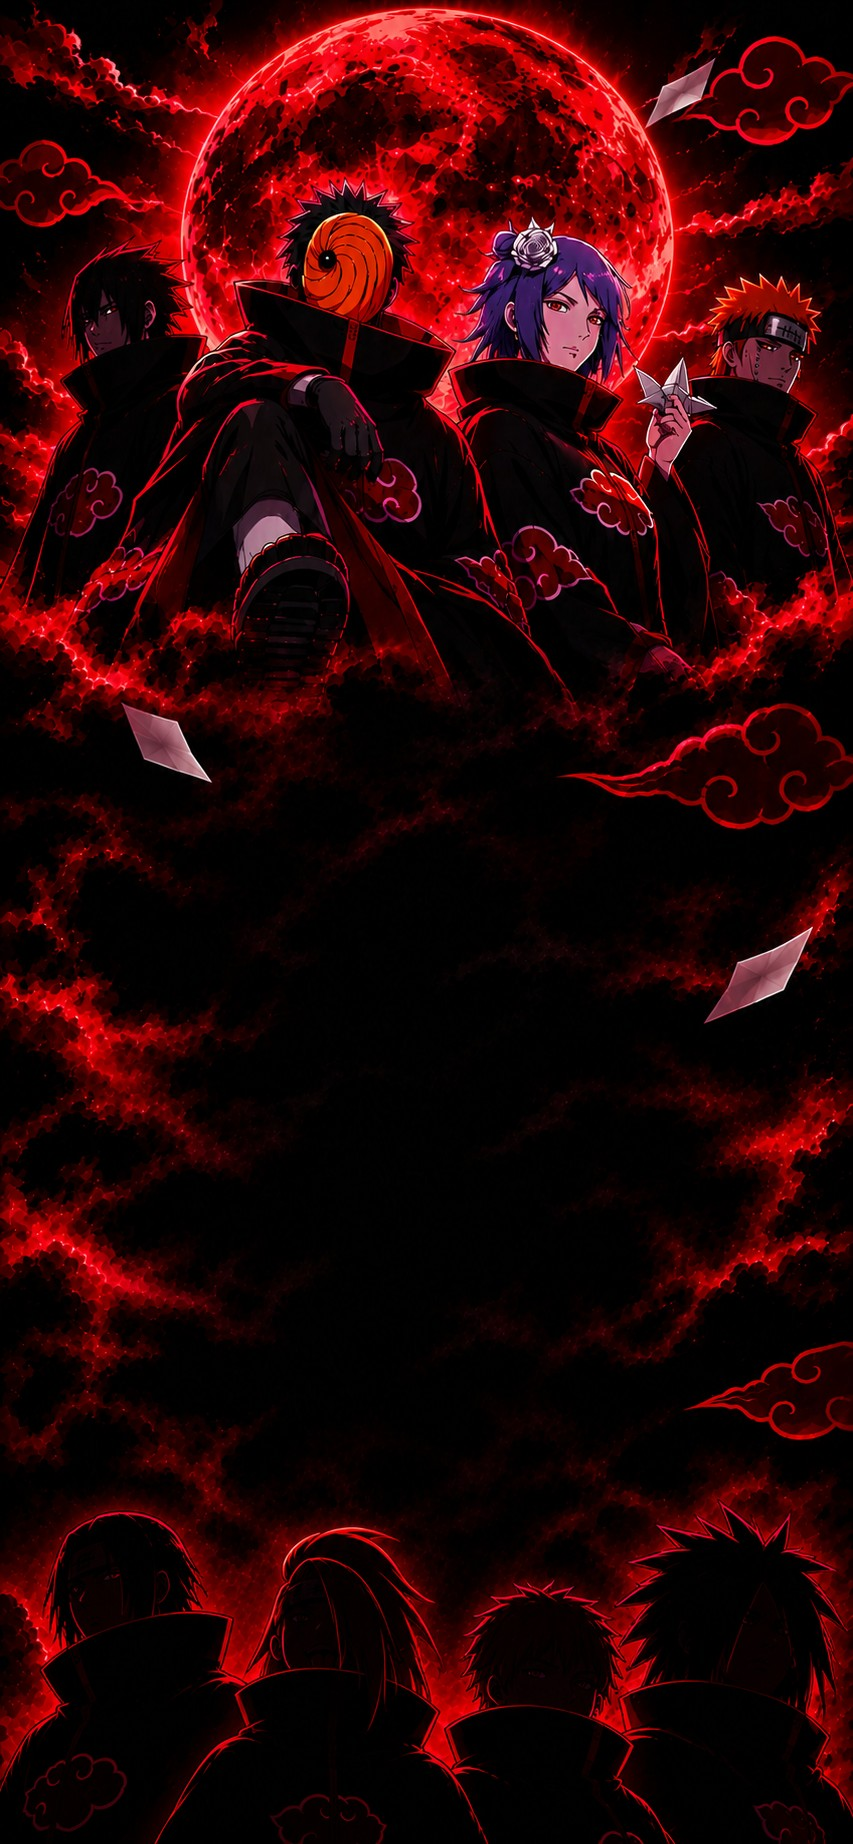
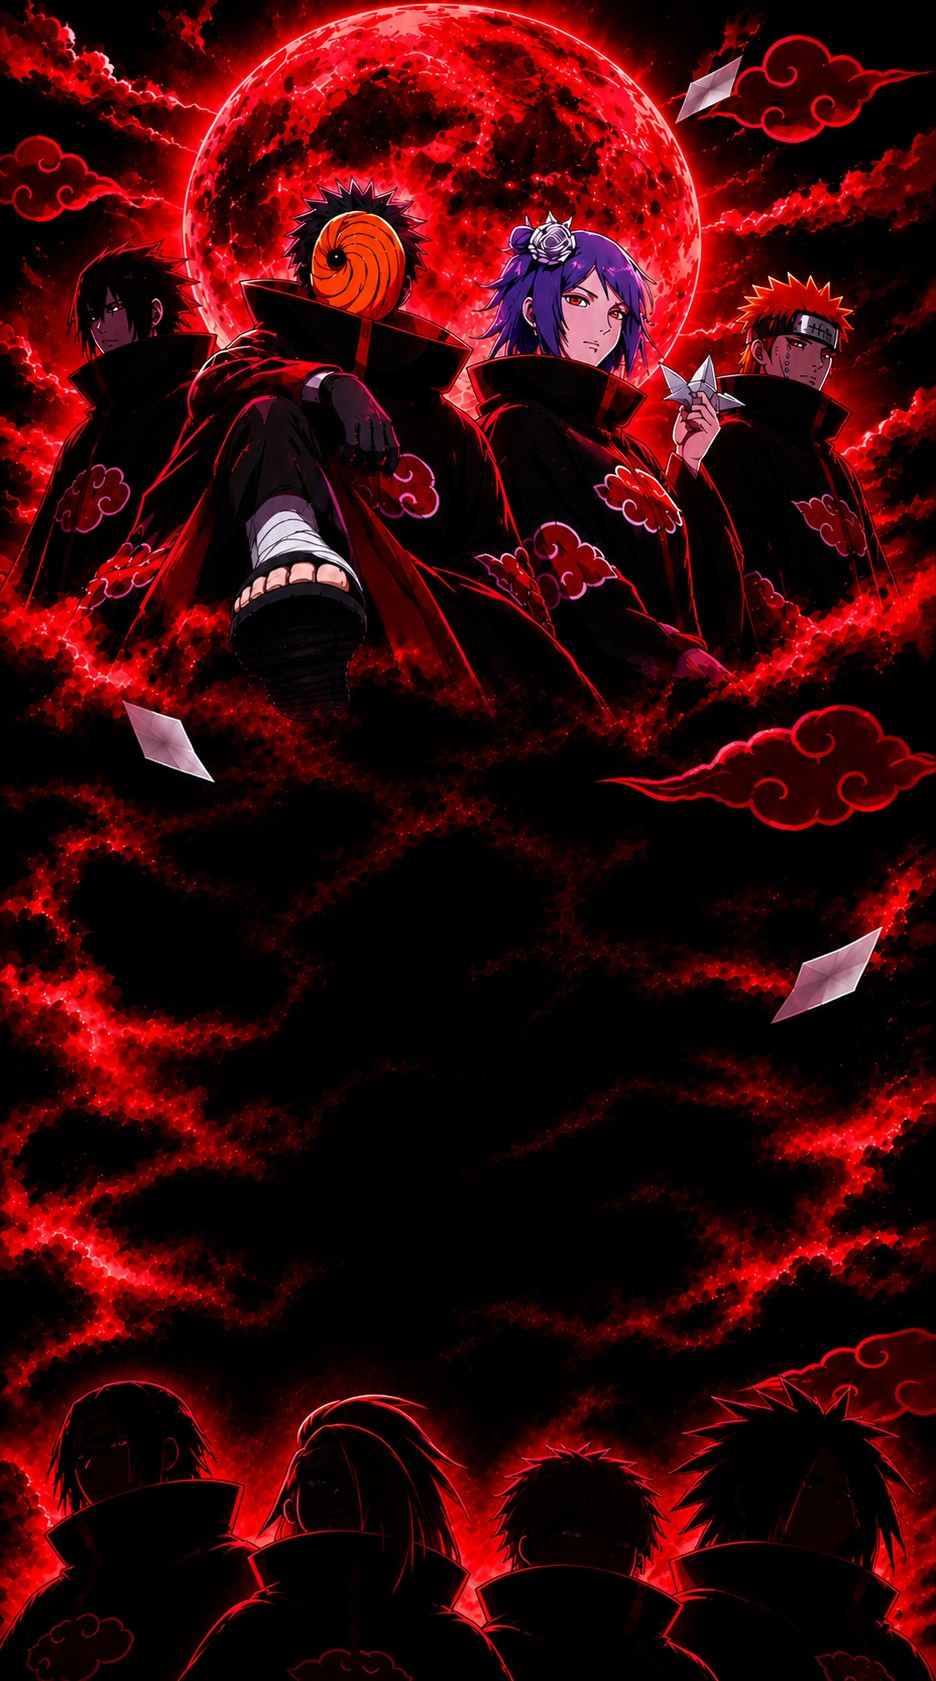
Add files via upload

diff --git a/index.html b/index.html
@@ -223,7 +223,7 @@ body.nolsfs .pw.ff .ob.ls:not(.cps),body.nolsfs .pw:fullscreen .ob.ls:not(.cps),
 .cfm h3{margin:0 0 6px;font-size:18px}.cfm p{margin:0 0 16px;color:#ccc;font-size:14px}
 .cfm .cfr{display:flex;gap:8px}.cfm .cfr .btn{flex:1}
 /* === TEMA NEON AKATSUKI — tela do player === */
-body[data-tab=play]::before{background:#000 var(--pbg,url(fundo-player.jpg)) center -22vw/100% auto no-repeat;-webkit-mask-image:linear-gradient(180deg,#000 82%,transparent);mask-image:linear-gradient(180deg,#000 82%,transparent)}
+body[data-tab=play]::before{top:-16vw;bottom:auto;height:calc(100vw*1.796);background:#000 var(--pbg,url(fundo-player.jpg)) center top/100% auto no-repeat;-webkit-mask-image:linear-gradient(180deg,#000 80%,transparent);mask-image:linear-gradient(180deg,#000 80%,transparent)}
 body[data-tab=play] #app{position:relative;padding-top:59vw}
 body[data-tab=play] .top{position:absolute;left:0;right:0;top:0;z-index:5;background:none;border:0}
 body[data-tab=play] .top>img{display:none}
